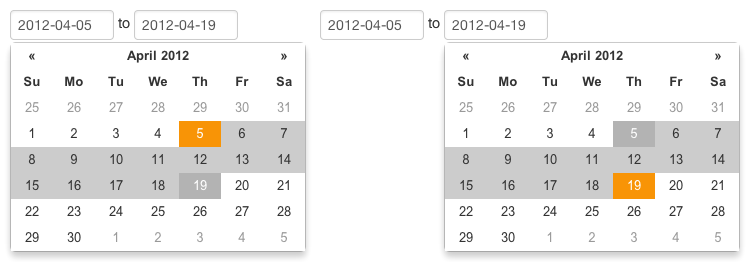
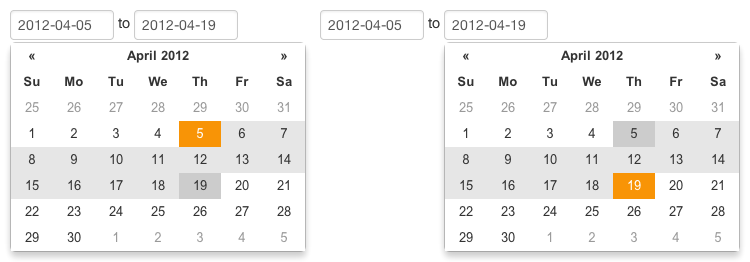
Making SCSS variables clearer.

Changed region(s): [[0.5827, 0.458, 1.0, 0.7634], [0.0, 0.458, 0.4293, 0.7634]]

diff --git a/css/datepicker.min.css b/css/datepicker.min.css
@@ -7,4 +7,4 @@
  * Licensed under the Apache License v2.0
  * http://www.apache.org/licenses/LICENSE-2.0
  *
- */.datepicker{direction:ltr}.datepicker.dropdown-menu{position:absolute;top:100%;left:0;padding:0;z-index:1000;float:left;display:none;list-style:none;background-color:#fff;-webkit-background-clip:padding-box;-moz-background-clip:padding;background-clip:padding-box;*border-right-width:2px;*border-bottom-width:2px;color:#333;font-family:Arial,"Helvetica Neue",Helvetica,sans-serif}.datepicker.datepicker-inline td,.datepicker.datepicker-inline th,.datepicker.dropdown-menu td,.datepicker.dropdown-menu th{padding:0 5px}.datepicker>div{display:none}.datepicker.days div.datepicker-days,.datepicker.months div.datepicker-months,.datepicker.years div.datepicker-years{display:block}.datepicker table{background-color:#fff;border:0;margin:0;-webkit-touch-callout:none;-webkit-user-select:none;-khtml-user-select:none;-moz-user-select:none;-ms-user-select:none;user-select:none}.datepicker table thead{background-color:#fff}.datepicker td,.datepicker th{text-align:center;width:32px;border:0;line-height:2;font-size:13px}.datepicker table tr td.day.focused,.datepicker table tr td.day:hover{background:#eee;cursor:pointer}.datepicker table tr td.new,.datepicker table tr td.old{color:#999}.datepicker table tr td.disabled,.datepicker table tr td.disabled:hover{background:0 0;color:#999;cursor:default}.datepicker table tr td.today,.datepicker table tr td.today.disabled,.datepicker table tr td.today.disabled:hover,.datepicker table tr td.today:hover{background-color:#fdd49a;color:#000}.datepicker table tr td.today.active:hover{color:#fff}.datepicker table tr td.range,.datepicker table tr td.range.disabled,.datepicker table tr td.range.disabled:hover,.datepicker table tr td.range:hover{background:#ccc}.datepicker table tr td.range.today,.datepicker table tr td.range.today.disabled,.datepicker table tr td.range.today.disabled:hover,.datepicker table tr td.range.today:hover{background-color:#e2b069}.datepicker table tr td.selected,.datepicker table tr td.selected.disabled,.datepicker table tr td.selected.disabled:hover,.datepicker table tr td.selected:hover{background-color:#b3b3b3;color:#fff}.datepicker table tr td.active,.datepicker table tr td.active.disabled,.datepicker table tr td.active.disabled:hover,.datepicker table tr td.active:hover{background-color:#f89406;color:#fff}.datepicker table tr td span{display:block;width:23%;height:54px;line-height:54px;float:left;margin:1%;cursor:pointer}.datepicker table tr td span:hover{background:#ccc}.datepicker table tr td span.disabled,.datepicker table tr td span.disabled:hover{background:0 0;color:#999;cursor:default}.datepicker table tr td span.active,.datepicker table tr td span.active.disabled,.datepicker table tr td span.active.disabled:hover,.datepicker table tr td span.active:hover{background-color:#f89406;color:#fff}.datepicker table tr td span.new,.datepicker table tr td span.old{color:#999}.datepicker th.datepicker-switch{width:145px}.datepicker tfoot tr th,.datepicker thead tr:first-child th{cursor:pointer}.datepicker tfoot tr th:hover,.datepicker thead tr:first-child th:hover{background:#eee}.datepicker .cw{font-size:10px;width:12px;padding:0 2px 0 5px;vertical-align:middle}.datepicker thead tr:first-child th.cw{cursor:default;background-color:transparent}.datepicker-inline{width:220px}.datepicker-rtl{direction:rtl}.datepicker-rtl table tr td span{float:right}
+ */.datepicker{direction:ltr}.datepicker.dropdown-menu{position:absolute;top:100%;left:0;padding:0;z-index:1000;float:left;display:none;list-style:none;background-color:#fff;-webkit-background-clip:padding-box;-moz-background-clip:padding;background-clip:padding-box;*border-right-width:2px;*border-bottom-width:2px;color:#333;font-family:Arial,"Helvetica Neue",Helvetica,sans-serif}.datepicker.datepicker-inline td,.datepicker.datepicker-inline th,.datepicker.dropdown-menu td,.datepicker.dropdown-menu th{padding:0 5px}.datepicker>div{display:none}.datepicker.days div.datepicker-days,.datepicker.months div.datepicker-months,.datepicker.years div.datepicker-years{display:block}.datepicker table{background-color:#fff;border:0;margin:0;-webkit-touch-callout:none;-webkit-user-select:none;-khtml-user-select:none;-moz-user-select:none;-ms-user-select:none;user-select:none}.datepicker table thead{background-color:#fff}.datepicker td,.datepicker th{text-align:center;width:32px;border:0;line-height:2;font-size:13px}.datepicker table tr td.day.focused,.datepicker table tr td.day:hover{background:#eee;cursor:pointer}.datepicker table tr td.new,.datepicker table tr td.old{color:#999}.datepicker table tr td.disabled,.datepicker table tr td.disabled:hover{background:0 0;color:#999;cursor:default}.datepicker table tr td.today,.datepicker table tr td.today.disabled,.datepicker table tr td.today.disabled:hover,.datepicker table tr td.today:hover{background-color:#fdd49a;color:#333}.datepicker table tr td.today.active:hover{color:#fff}.datepicker table tr td.range,.datepicker table tr td.range.disabled,.datepicker table tr td.range.disabled:hover,.datepicker table tr td.range:hover{background:#e6e6e6}.datepicker table tr td.range.today,.datepicker table tr td.range.today.disabled,.datepicker table tr td.range.today.disabled:hover,.datepicker table tr td.range.today:hover{background-color:#e2b069}.datepicker table tr td.selected,.datepicker table tr td.selected.disabled,.datepicker table tr td.selected.disabled:hover,.datepicker table tr td.selected:hover{background-color:#ccc}.datepicker table tr td.active,.datepicker table tr td.active.disabled,.datepicker table tr td.active.disabled:hover,.datepicker table tr td.active:hover{background-color:#f89406;color:#fff}.datepicker table tr td span{display:block;width:23%;height:54px;line-height:54px;float:left;margin:1%;cursor:pointer}.datepicker table tr td span:hover{background:#e6e6e6}.datepicker table tr td span.disabled,.datepicker table tr td span.disabled:hover{background:0 0;color:#999;cursor:default}.datepicker table tr td span.active,.datepicker table tr td span.active.disabled,.datepicker table tr td span.active.disabled:hover,.datepicker table tr td span.active:hover{background-color:#f89406;color:#fff}.datepicker table tr td span.new,.datepicker table tr td span.old{color:#999}.datepicker th.datepicker-switch{width:145px}.datepicker tfoot tr th,.datepicker thead tr:first-child th{cursor:pointer}.datepicker tfoot tr th:hover,.datepicker thead tr:first-child th:hover{background:#eee}.datepicker .cw{font-size:10px;width:12px;padding:0 2px 0 5px;vertical-align:middle}.datepicker thead tr:first-child th.cw{cursor:default;background-color:transparent}.datepicker-inline{width:220px}.datepicker-rtl{direction:rtl}.datepicker-rtl table tr td span{float:right}

diff --git a/scss/datepicker.scss b/scss/datepicker.scss
@@ -4,11 +4,11 @@
 //=========================================
 
 // Border Radius
-@mixin border-radius($radius: 5px) {
-    -webkit-border-radius: $radius;
-    -moz-border-radius: $radius;
-    border-radius: $radius;
-}
+// @mixin border-radius($radius: 5px) {
+//     -webkit-border-radius: $radius;
+//     -moz-border-radius: $radius;
+//     border-radius: $radius;
+// }
 
 // The dropdown menu (<ul>)
 //=========================================
@@ -24,13 +24,13 @@
         float: left;
         display: none; // none by default, but block on"open" of the menu min-width: 160px;
         list-style: none;
-        background-color: $white;
+        background-color: $color-background;
         -webkit-background-clip: padding-box;
         -moz-background-clip: padding;
         background-clip: padding-box;
         *border-right-width: 2px;
         *border-bottom-width: 2px;
-        color: $grayDark;
+        color: $color-font;
         font-family: $font-family;
     }
     &.dropdown-menu, &.datepicker-inline {
@@ -52,7 +52,7 @@
         display: block;
     }
     table {
-        background-color: $white;
+        background-color: $color-background;
         border: 0;
         margin: 0;
         -webkit-touch-callout: none;
@@ -62,7 +62,7 @@
         -ms-user-select: none;
         user-select: none;
         thead {
-          background-color: $white;
+          background-color: $color-background;
         }
     }
     td,
@@ -72,42 +72,41 @@
         width: 32px;
         border: none;
         line-height: $line-height-base;
-        font-size: 13px;
+        font-size: $font-size;
     }
     table tr td {
         &.day:hover,
         &.day.focused {
-            background: $grayLightest;
+            background: $color-day-hover-bg;
             cursor: pointer;
         }
         &.old,
         &.new {
-            color: $grayLight;
+            color: $color-day-disabled
         }
         &.disabled,
         &.disabled:hover {
             background: none;
-            color: $grayLight;
+            color: $color-day-disabled;
             cursor: default;
         }
         &.today,
         &.today:hover,
         &.today.disabled,
         &.today.disabled:hover {
-            $todayBackground: lighten($primary, 30%);
-            background-color: $todayBackground;
-            color: $black;
+            background-color: $color-day-today-bg;
+            color: $color-font;
         }
 
         &.today.active:hover {
-            color: $white;
+            color: $color-day-selected;
         }
         &.range,
         &.range:hover,
         &.range.disabled,
         &.range.disabled:hover {
             // @include border-radius(0);
-            background: $grayLighter;
+            background: $color-day-range-selector-bg;
         }
 
         &.range.today,
@@ -115,24 +114,22 @@
         &.range.today.disabled,
         &.range.today.disabled:hover {
             // @include border-radius(0);
-            $todayBackground: mix($primary, $grayLighter, 50%);
-            background-color: $todayBackground;
+            background-color: $color-day-range-today-bg;
         }
 
         &.selected,
         &.selected:hover,
         &.selected.disabled,
         &.selected.disabled:hover {
-            background-color: lighten($grayLight, 10);
-            color: $white;
+            background-color: $color-day-range-bg;
         }
 
         &.active,
         &.active:hover,
         &.active.disabled,
         &.active.disabled:hover {
-            background-color: $primary;
-            color: $white;
+            background-color: $color-day-selected-bg;
+            color: $color-day-selected;
         }
 
         span {
@@ -146,13 +143,13 @@
             cursor: pointer;
 
             &:hover {
-                background: $grayLighter;
+                background: $color-day-range-selector-bg;
             }
 
             &.disabled,
             &.disabled:hover {
                 background:none;
-                color: $grayLight;
+                color: $color-day-disabled;
                 cursor: default;
             }
 
@@ -160,12 +157,12 @@
             &.active:hover,
             &.active.disabled,
             &.active.disabled:hover {
-                background-color: $primary;
-                color: $white;
+                background-color: $color-day-selected-bg;
+                color: $color-day-selected;
             }
 
             &.old, &.new {
-                color: $grayLight;
+                color: $color-day-disabled;
             }
         }
     }
@@ -179,7 +176,7 @@
         cursor: pointer;
 
         &:hover {
-            background: $grayLightest;
+            background: $color-day-hover-bg;
         }
     }
     /*.dow {

diff --git a/css/datepicker.css b/css/datepicker.css
@@ -70,16 +70,15 @@
     cursor: default; }
   .datepicker table tr td.today, .datepicker table tr td.today:hover, .datepicker table tr td.today.disabled, .datepicker table tr td.today.disabled:hover {
     background-color: #fdd49a;
-    color: #000; }
+    color: #333; }
   .datepicker table tr td.today.active:hover {
     color: #fff; }
   .datepicker table tr td.range, .datepicker table tr td.range:hover, .datepicker table tr td.range.disabled, .datepicker table tr td.range.disabled:hover {
-    background: #ccc; }
+    background: #e6e6e6; }
   .datepicker table tr td.range.today, .datepicker table tr td.range.today:hover, .datepicker table tr td.range.today.disabled, .datepicker table tr td.range.today.disabled:hover {
     background-color: #e2b069; }
   .datepicker table tr td.selected, .datepicker table tr td.selected:hover, .datepicker table tr td.selected.disabled, .datepicker table tr td.selected.disabled:hover {
-    background-color: #b3b3b3;
-    color: #fff; }
+    background-color: #ccc; }
   .datepicker table tr td.active, .datepicker table tr td.active:hover, .datepicker table tr td.active.disabled, .datepicker table tr td.active.disabled:hover {
     background-color: #f89406;
     color: #fff; }
@@ -92,7 +91,7 @@
     margin: 1%;
     cursor: pointer; }
     .datepicker table tr td span:hover {
-      background: #ccc; }
+      background: #e6e6e6; }
     .datepicker table tr td span.disabled, .datepicker table tr td span.disabled:hover {
       background: none;
       color: #999;

diff --git a/scss/settings.scss b/scss/settings.scss
@@ -13,17 +13,24 @@
 // =========================================
 
 // Colours
-$grayDark:              #333;
-$gray:                  #555;
-$grayLight:             #999;
-$grayLighter:           #ccc;
-$grayLightest:          #eee;
-$black:                 #000;
-$white:                 #fff;
-$primary:               #f89406;
+$color-background:          #fff;
+$color-font:                #333;
+$color-day-hover-bg:        #eee;
+$color-day-selected:        #fff;
+$color-day-selected-bg:     #f89406;
+$color-day-today-bg:        lighten($color-day-selected-bg, 30%);
+
+// Ranges
+$color-day-range-bg:            #ccc;
+$color-day-range-selector-bg:   lighten($color-day-range-bg, 10);
+$color-day-range-today-bg:      mix($color-day-selected-bg, $color-day-range-bg, 50%);
+
+// Disabled, Prev Next Month's Dates
+$color-day-disabled:        #999;
 
 // Type
 $font-family:           Arial, "Helvetica Neue", Helvetica, sans-serif;
+$font-size:             13px;
 $line-height-base:      2;
 $zindex-dropdown:       1000;
 

diff --git a/Gruntfile.js b/Gruntfile.js
@@ -73,7 +73,6 @@ module.exports = function(grunt){
     grunt.registerTask('lint', 'Lint all js files with jshint and jscs', ['jshint', 'jscs']);
     // grunt.registerTask('test', 'Lint files and run unit tests', ['lint', 'qunit']);
     grunt.registerTask('finish', 'Prepares repo for commit [lint, sass:repo, screenshots, cssmin, uglify]', ['lint', 'sass:repo', 'screenshots', 'cssmin', 'uglify']);
-    // grunt.registerTask('dist', 'Builds minified files', ['clean', 'sass:repo', 'sass:standalone', 'cssmin', 'uglify']);
 
     grunt.registerTask('screenshots', 'Rebuilds automated docs screenshots', function(){
         var phantomjs = require('phantomjs').path;
